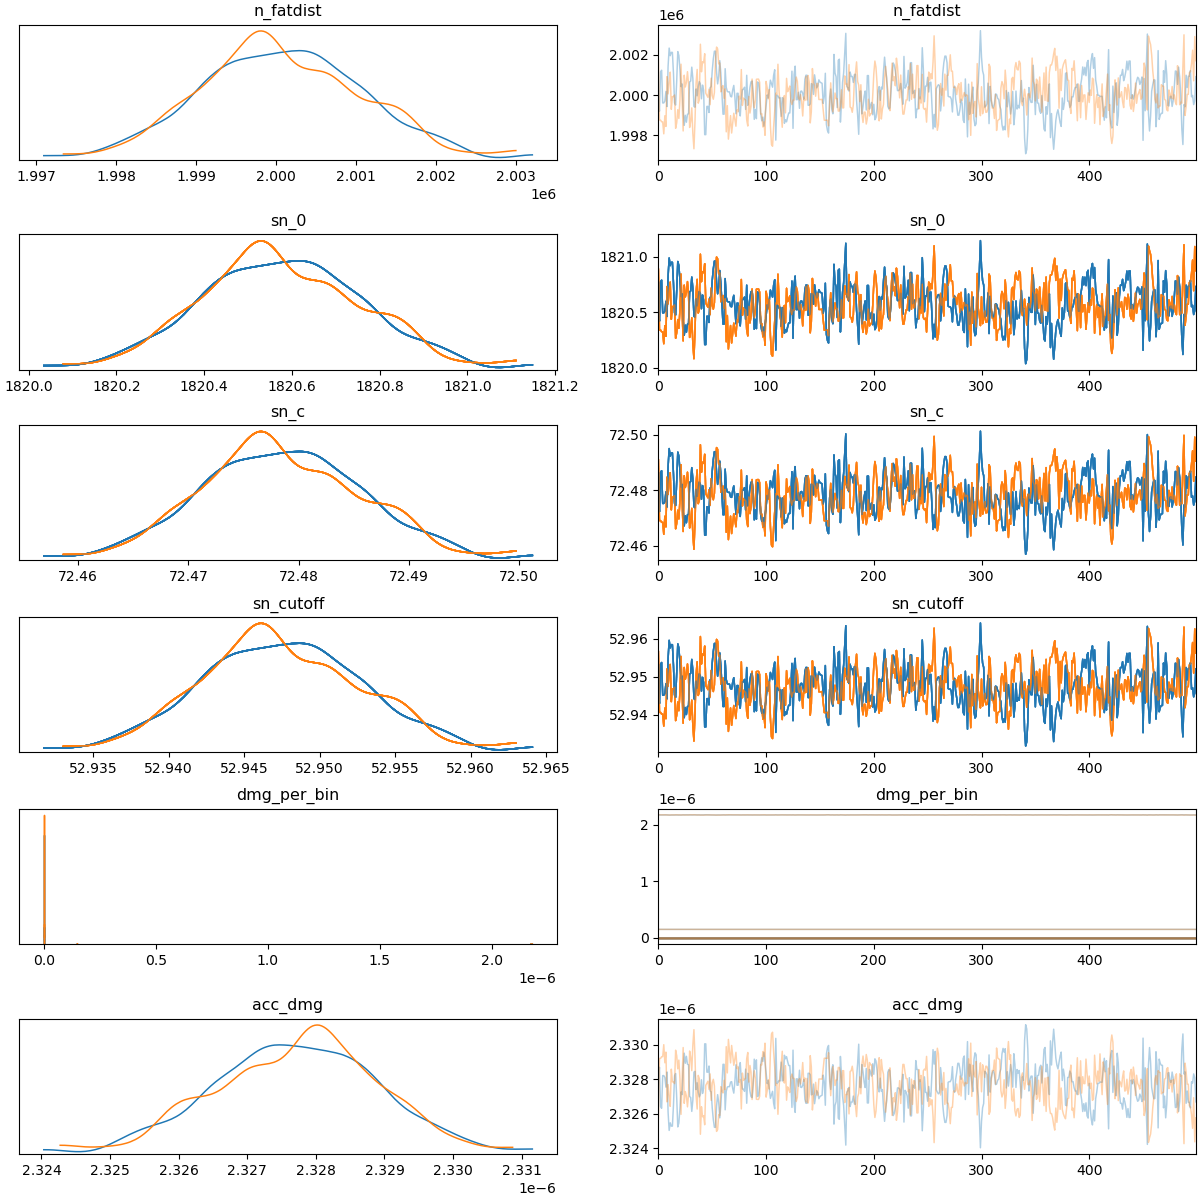
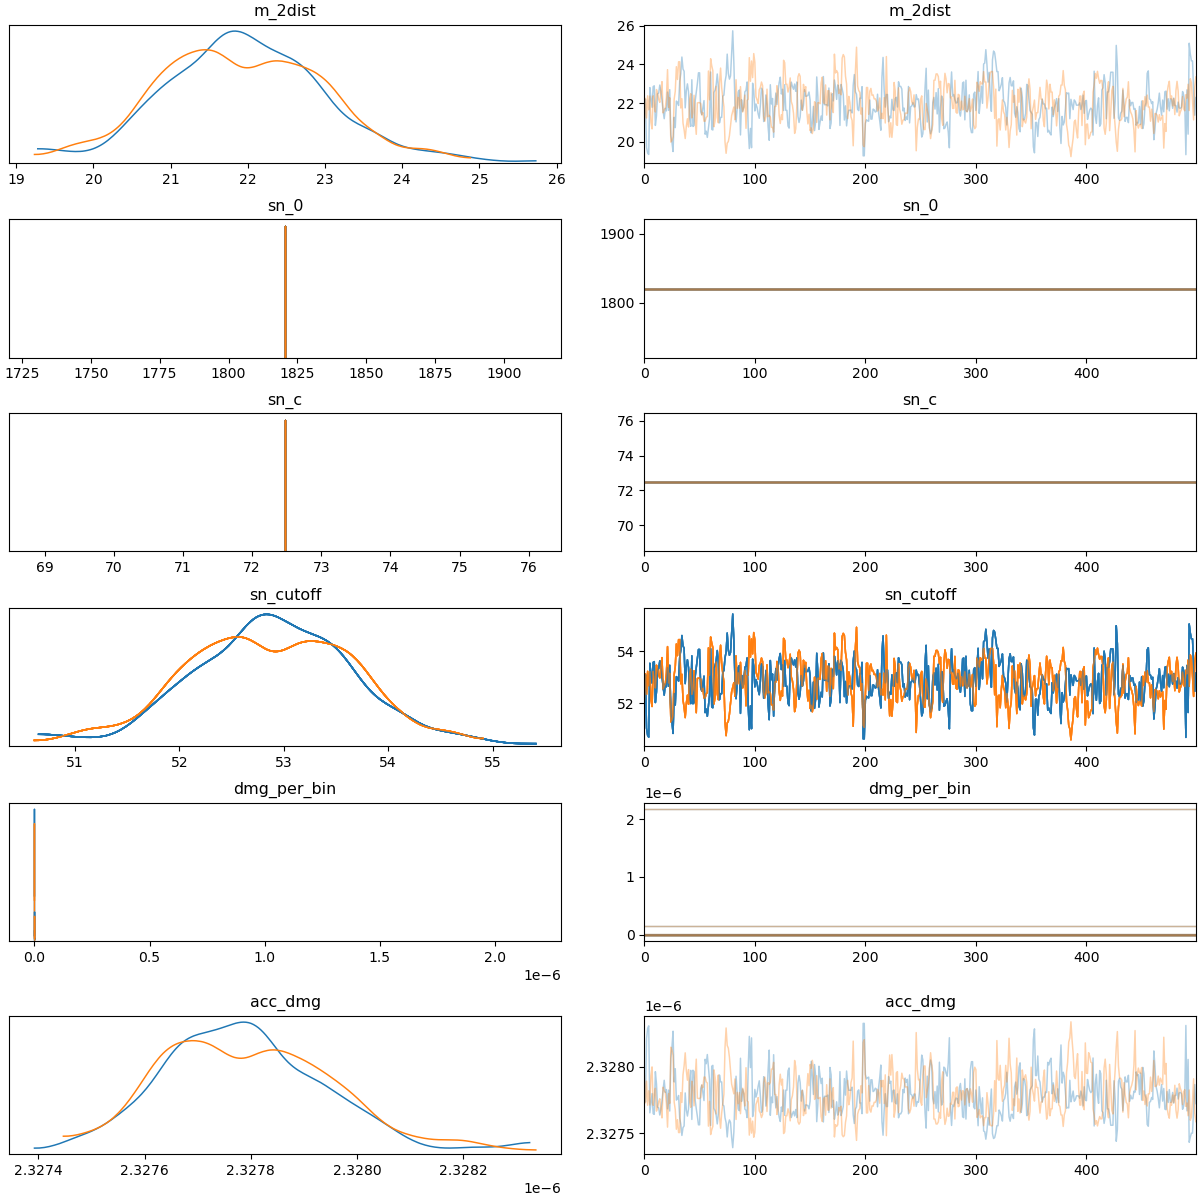
update

diff --git a/prob_weldfat.py b/prob_weldfat.py
@@ -166,11 +166,11 @@ def fn(cycles,rng,sm,cum_dmg,sn_0,sn_c,sn_cutoff,fat, n_fat, n_c, m_1, m_2,fat_f
         input function to the loop over all bins
     """
     cum_damage = np.float64(0)
-    log10_sn_1 = tt.log10(fat * fat_fact) + (tt.log10(n_fat) - tt.log10(n_0)) / m_1
+    log10_sn_1 = (tt.log10(fat * fat_fact) + (tt.log10(n_fat) - tt.log10(n_0)) / m_1).astype("float64")
     sn_1 = 10 ** log10_sn_1
-    sn_0 = 10 ** (log10_sn_1 + tt.log10(n_0) / m_0)
-    sn_c = 10 ** (tt.log10(fat * fat_fact) - (tt.log10(n_c) - tt.log10(n_fat)) / m_1)
-    sn_cutoff = sn_cutoff = 10 ** (tt.log10(sn_c) - (tt.log10(n_cutoff)-tt.log10(n_c))/m_2)
+    sn_0 = (10 ** (log10_sn_1 + tt.log10(n_0) / m_0)).astype("float64")
+    sn_c = (10 ** (tt.log10(fat * fat_fact) - (tt.log10(n_c) - tt.log10(n_fat)) / m_1)).astype("float64")
+    sn_cutoff = (10 ** (tt.log10(sn_c) - (tt.log10(n_cutoff)-tt.log10(n_c))/m_2)).astype("float64")
     life = 0
     log10_life = 0
     dmg_per_bin = 0
@@ -198,7 +198,7 @@ def fn(cycles,rng,sm,cum_dmg,sn_0,sn_c,sn_cutoff,fat, n_fat, n_c, m_1, m_2,fat_f
     s_factor_stress_per_bin = tt.min([100.0, s_nb / tt.max([1, rng])])
 
 
-    return  dmg_per_bin,sn_0,sn_c,sn_cutoff# y = prev_result
+    return  dmg_per_bin,sn_0,sn_c,sn_cutoff
 
 
 def scan(cycles,rng,sm,fat: int=1, n_fat: int = 2000000, n_c: int=10000000, m_1:int=3, m_2:int=22,fat_fact: int=1, n_0: int=314018, m_0: int=5, n_cutoff: int=10000000000,r_y:int=0, r_m:int=0, m_s_th:int=0):
@@ -238,9 +238,9 @@ def calculate_weldfat(**kwargs):
             if type(value)==list and (value[0] in ["normal","halfnormal","lognormal","uniform"]):
                 distributed=True # triggers sampling process
                 kwargs[key] = dists[value[0]](str(key)+ "dist",mu=value[1],sd=value[2])
-            else:
-                kwargs[key] = value
-       
+        else:
+            hei=1
+           
         dmg_per_bin,sn_0,sn_c,sn_cutoff = scan(cycles,rng,sm,**kwargs)
         sn_0 = pm.Deterministic("sn_0", sn_0)
         sn_c = pm.Deterministic("sn_c", sn_c)
@@ -300,7 +300,7 @@ def plot_trace(trace,kwargs):
                 plt.plot([n_1,n_c[i],n_cutoff],[sn_0,sn_c,sn_cutoff])
         else: 
             n_c = log10(kwargs["n_c"])
-            plt.plot([n_1,n_c,n_cutoff],[sn_0,sn_c,sn_cutoff])
+            plt.plot([n_1,n_c,n_cutoff],[sn_0,sn_c,sn_cutoff], color='C3',alpha=0.005)
         
         plt.savefig("sn_curves")
 ##################

diff --git a/input.py b/input.py
@@ -15,12 +15,12 @@ def input():
     input_serie_2 = {}
     input_serie_2['method'] = 'Nominal Fatigue' 
     input_serie_2['fatigue_class'] = {
-        'fat':100, # ["normal",100.0,10],
+        'fat':100, #["normal",100.0,10],
         'fatFact': 1.0,
-        'n_fat': ["normal",2000000.0,1000],
+        'n_fat': 2e6,#["normal",2000000.0,1000],
         'n_c': 10000000.0,
         'm_1': 5,#["normal",5.0,1],
-        'm_2': 22.0,
+        'm_2': ["normal",22.0,1]
         }
     input_serie_2['stress_unit'] = 'MPa'
     input_serie_2['serie_data'] = {'series': series}

diff --git a/orig_weldfat.py b/orig_weldfat.py
@@ -366,8 +366,6 @@ def apply_mean_stress_theory(mean_stress_theory,sm,rng,sn_0,r_m,r_y):
     return rng
 
 start = time.time()
-# for i in fat:
-#     input_serie_2["fatigue_class"]["fat"] = i
 WeldFat(timestamp, _componentId, json_input,response)
 end = time.time()
 print(end - start)
